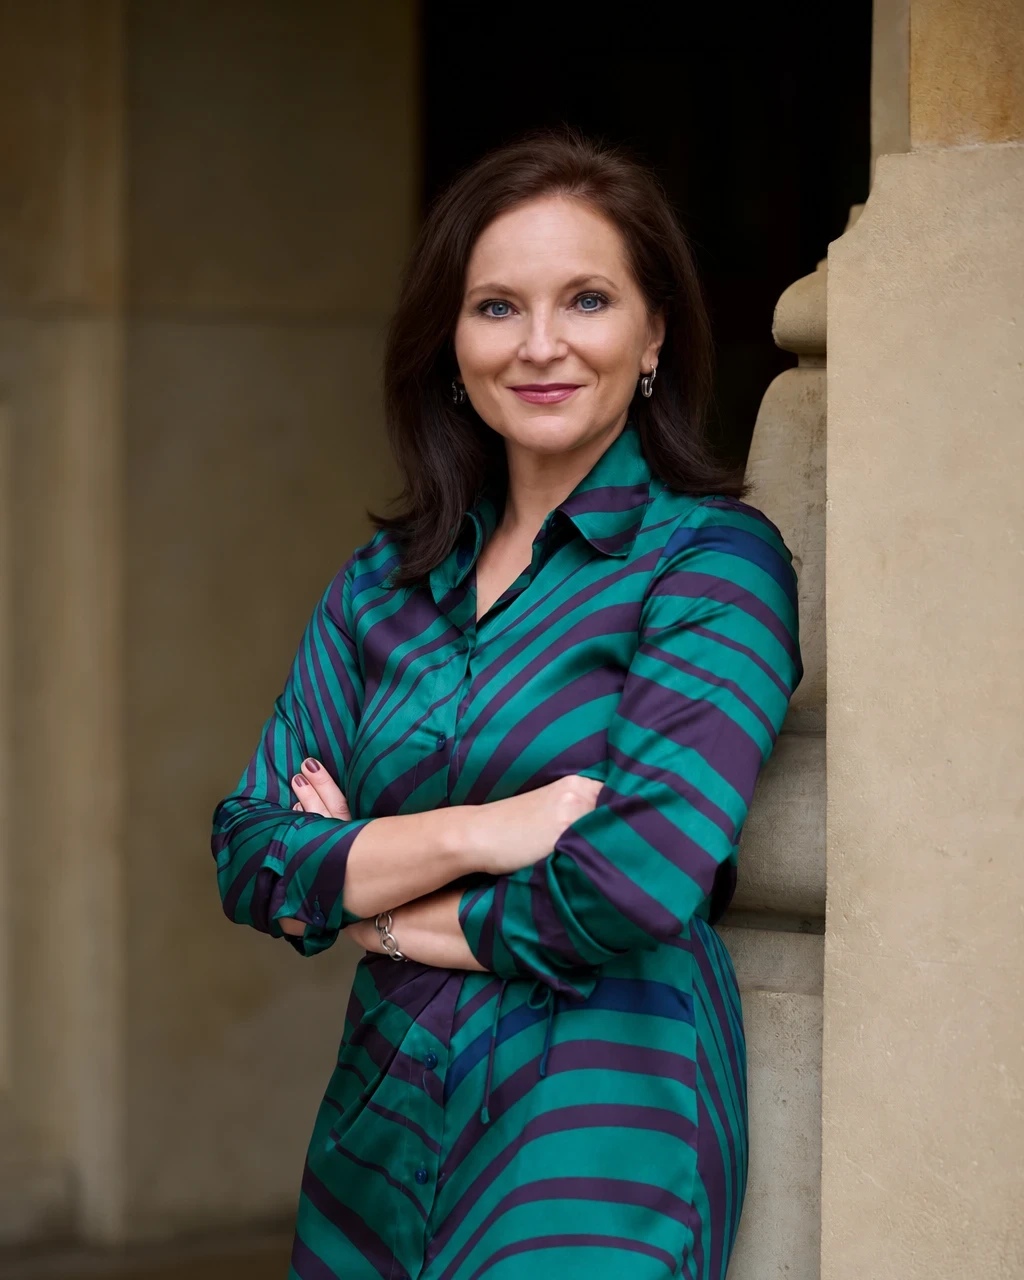
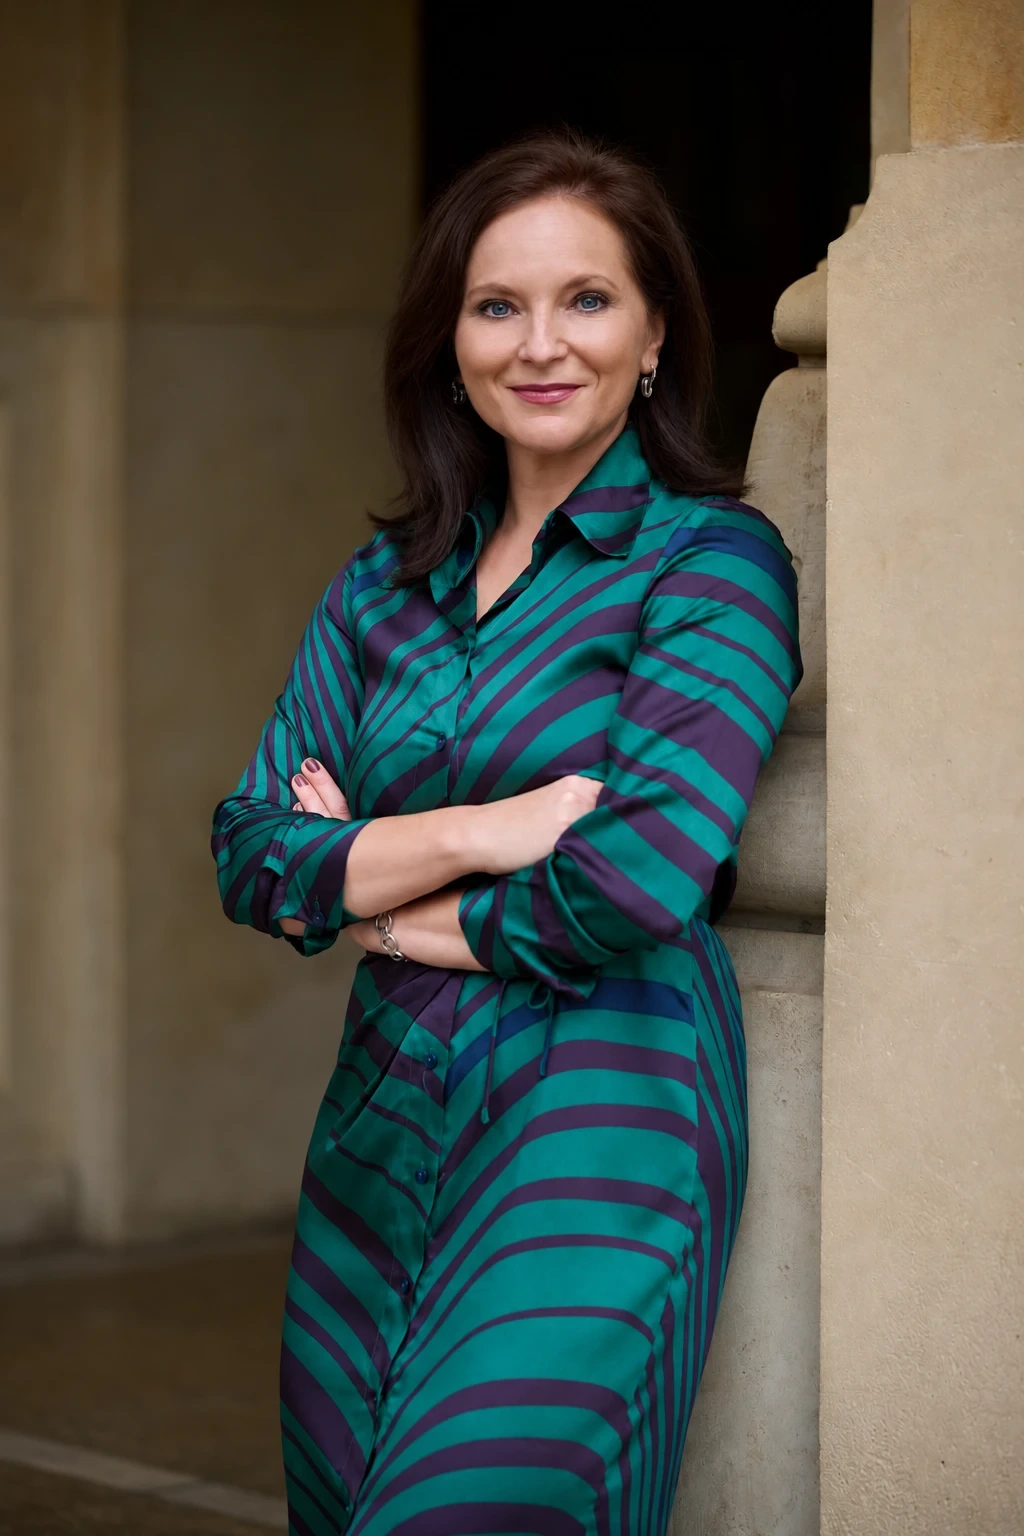
Über mich: Portraitfoto im vollen Original-Hochformat zeigen
Bildcontainer von 4:5 auf 2:3 (Originalproportion des Fotos)
umgestellt, kein Zuschnitt am unteren Kleidbereich mehr nötig. Zwei-
spaltiges Layout, Text und Handschrift-Zeile unverändert.

diff --git a/src/app/ueber-mich/page.tsx b/src/app/ueber-mich/page.tsx
@@ -251,7 +251,7 @@ export default function UeberMichPage() {
           </div>
 
           <div className="lg:order-2 lg:sticky lg:top-28">
-            <div className="relative aspect-[4/5] w-full overflow-hidden bg-surface-elevated">
+            <div className="relative aspect-[2/3] w-full overflow-hidden bg-surface-elevated">
               <Image
                 src={images.about.portrait}
                 alt="Natalia Saslawski"
